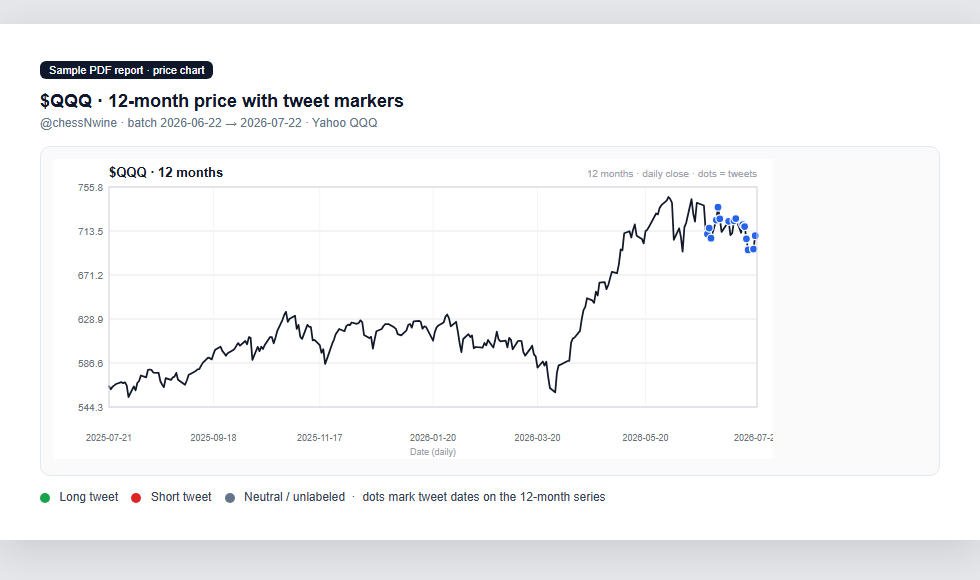
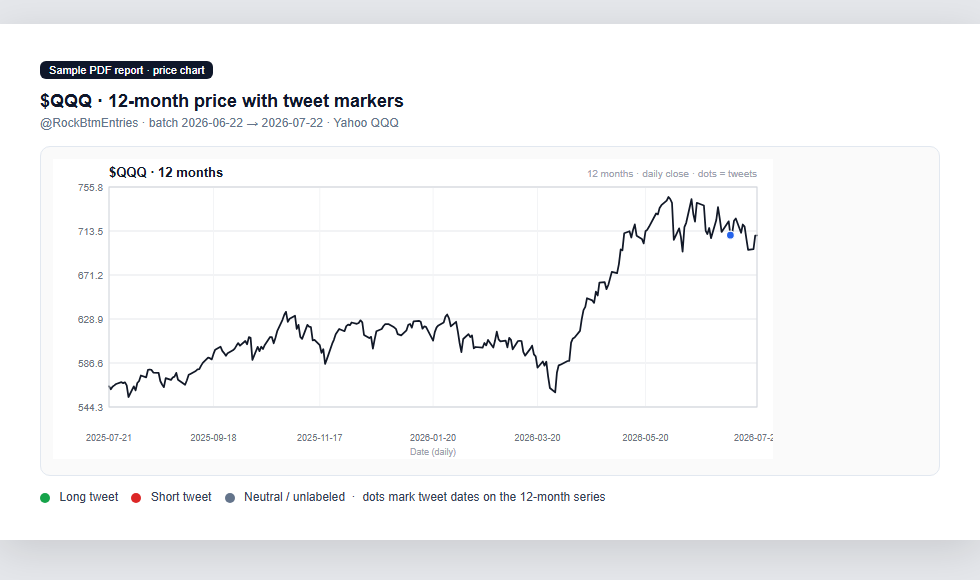
Replace Infinite__Sigma samples with RockBtmEntries
README and screenshot generator now use @user for overview
and chart examples (WEAT, QQQ, MOS). Remove old crypto-account shots.

Changed region(s): [[0.0612, 0.1862, 0.398, 0.2172], [0.7041, 0.3724, 0.7959, 0.4345]]

diff --git a/scripts/render-readme-shots.js b/scripts/render-readme-shots.js
@@ -253,13 +253,17 @@ async function main() {
   mkdirSync(outDir, { recursive: true });
   mkdirSync(tmpDir, { recursive: true });
 
-  const sigma = loadReport("Infinite__Sigma_batch1of3");
+  const rock = loadReport("RockBtmEntries_batch1of2");
   const chess = loadReport("chessNwine_batch1of3");
+  const rockChartDir = join(
+    root,
+    "output/charts/RockBtmEntries/2026-06-22_to_2026-07-22"
+  );
 
   const pages = [
     {
-      html: buildSummaryHtml(sigma),
-      file: "report-summary-crypto.png",
+      html: buildSummaryHtml(rock),
+      file: "report-summary-rockbtm.png",
       w: 900,
       h: 1220,
     },
@@ -271,22 +275,19 @@ async function main() {
     },
     {
       html: buildChartHtml(
-        join(
-          root,
-          "output/charts/Infinite__Sigma/2026-06-22_to_2026-07-22/ETH.svg"
-        ),
-        "$ETH · 12-month price with tweet markers",
-        "@Infinite__Sigma · batch 2026-06-22 → 2026-07-22 · Yahoo ETH-USD"
+        join(rockChartDir, "WEAT.svg"),
+        "$WEAT · 12-month price with tweet markers",
+        "@RockBtmEntries · batch 2026-06-22 → 2026-07-22 · Yahoo WEAT"
       ),
-      file: "report-chart-eth.png",
+      file: "report-chart-weat.png",
       w: 980,
       h: 580,
     },
     {
       html: buildChartHtml(
-        join(root, "output/charts/chessNwine/2026-06-22_to_2026-07-22/QQQ.svg"),
+        join(rockChartDir, "QQQ.svg"),
         "$QQQ · 12-month price with tweet markers",
-        "@chessNwine · batch 2026-06-22 → 2026-07-22 · Yahoo QQQ"
+        "@RockBtmEntries · batch 2026-06-22 → 2026-07-22 · Yahoo QQQ"
       ),
       file: "report-chart-qqq.png",
       w: 980,
@@ -294,14 +295,11 @@ async function main() {
     },
     {
       html: buildChartHtml(
-        join(
-          root,
-          "output/charts/Infinite__Sigma/2026-06-22_to_2026-07-22/PEPE.svg"
-        ),
-        "$PEPE · 12-month crypto chart with tweet markers",
-        "@Infinite__Sigma · Yahoo PEPE crypto series"
+        join(rockChartDir, "MOS.svg"),
+        "$MOS · 12-month price with tweet markers",
+        "@RockBtmEntries · Yahoo MOS (fertilizer / materials)"
       ),
-      file: "report-chart-pepe.png",
+      file: "report-chart-mos.png",
       w: 980,
       h: 580,
     },
@@ -315,8 +313,14 @@ async function main() {
     console.log("wrote", page.file);
   }
 
-  // cleanup blank test shots + tmp
-  for (const junk of ["page1.png", "chessNwine-summary.png"]) {
+  // cleanup obsolete / blank shots + tmp
+  for (const junk of [
+    "page1.png",
+    "chessNwine-summary.png",
+    "report-summary-crypto.png",
+    "report-chart-eth.png",
+    "report-chart-pepe.png",
+  ]) {
     try {
       rmSync(join(outDir, junk), { force: true });
     } catch {}

diff --git a/README.md b/README.md
@@ -6,11 +6,11 @@ Analyze FinTwit (finance Twitter/X) accounts: scrape tweets, extract tickers (st
 
 Each monthly batch writes a PDF with trader style, instruments, LLM Long/Short/Neutral counts, directional calls, and Yahoo price charts with tweet-date markers.
 
-### Overview page (crypto + equities account)
+### Overview page (commodities / equities)
 
-Example from `@Infinite__Sigma` — mixed `$ETH` / `$PEPE` / `$TAO` / `$SPCX` window:
+Example from `@RockBtmEntries` — ags, fertilizer, energy, and index mentions:
 
-![Sample report overview — Infinite__Sigma](docs/screenshots/report-summary-crypto.png)
+![Sample report overview — RockBtmEntries](docs/screenshots/report-summary-rockbtm.png)
 
 ### Overview page (equities / macro FinTwit)
 
@@ -20,15 +20,15 @@ Example from `@chessNwine`:
 
 ### 12-month charts with tweet markers
 
-Green / red / grey dots mark tweet dates on the daily close series (stocks and crypto).
+Green / red / grey dots mark tweet dates on the daily close series (stocks, commodities, and crypto when present).
 
-| Crypto (`$ETH`) | Equities (`$QQQ`) |
-|-----------------|-------------------|
-| ![ETH 12-month chart](docs/screenshots/report-chart-eth.png) | ![QQQ 12-month chart](docs/screenshots/report-chart-qqq.png) |
+| `$WEAT` | `$QQQ` |
+|---------|--------|
+| ![WEAT 12-month chart](docs/screenshots/report-chart-weat.png) | ![QQQ 12-month chart](docs/screenshots/report-chart-qqq.png) |
 
-Meme / alt crypto works the same way (Yahoo `-USD` series):
+Single-name equities (e.g. fertilizer):
 
-![PEPE 12-month chart](docs/screenshots/report-chart-pepe.png)
+![MOS 12-month chart](docs/screenshots/report-chart-mos.png)
 
 > Screenshots are rendered from real analysis JSON + chart SVGs produced by the tool. Re-generate with `node scripts/render-readme-shots.js` after new runs (requires local `output/` data and Chrome).
 
@@ -75,7 +75,7 @@ In that Chrome window, log into **x.com**, then leave it open (or close it after
 node analyze-account.js --account PeterLBrandt
 
 # Last 3 months, monthly PDFs, LLM Long/Short/Neutral
-node analyze-account.js --account Infinite__Sigma --period 3m --llm --max-scrolls 150
+node analyze-account.js --account RockBtmEntries --period 3m --llm --max-scrolls 150
 ```
 
 | Flag | Meaning |

diff --git a/README-analyze.md b/README-analyze.md
@@ -7,7 +7,7 @@ See the main [README.md](README.md) for full setup.
 node analyze-account.js --account RockBtmEntries
 
 # 3 months, LLM sides, monthly PDFs
-node analyze-account.js --account Infinite__Sigma --period 3m --llm --max-scrolls 150
+node analyze-account.js --account RockBtmEntries --period 3m --llm --max-scrolls 150
 ```
 
 Requires Chrome session (`npm run start-chrome` + login once). Optional LLM needs `XAI_API_KEY` in `.env` (copy from `.env.example`).